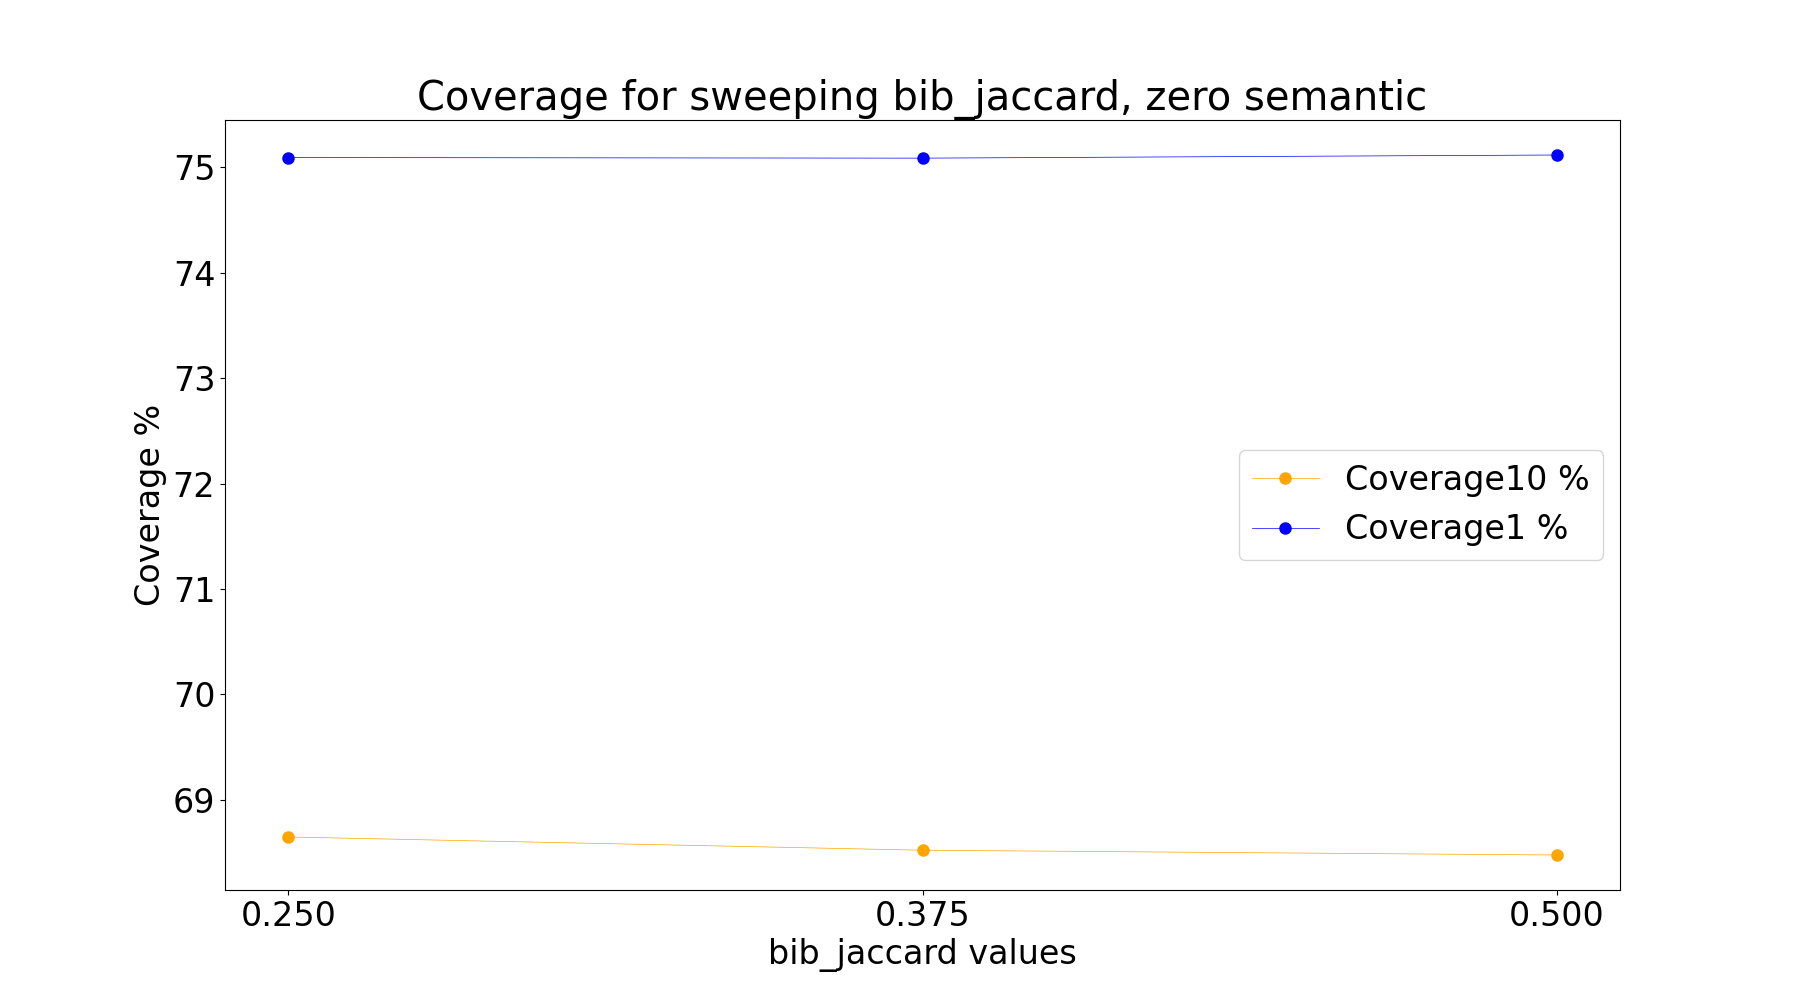
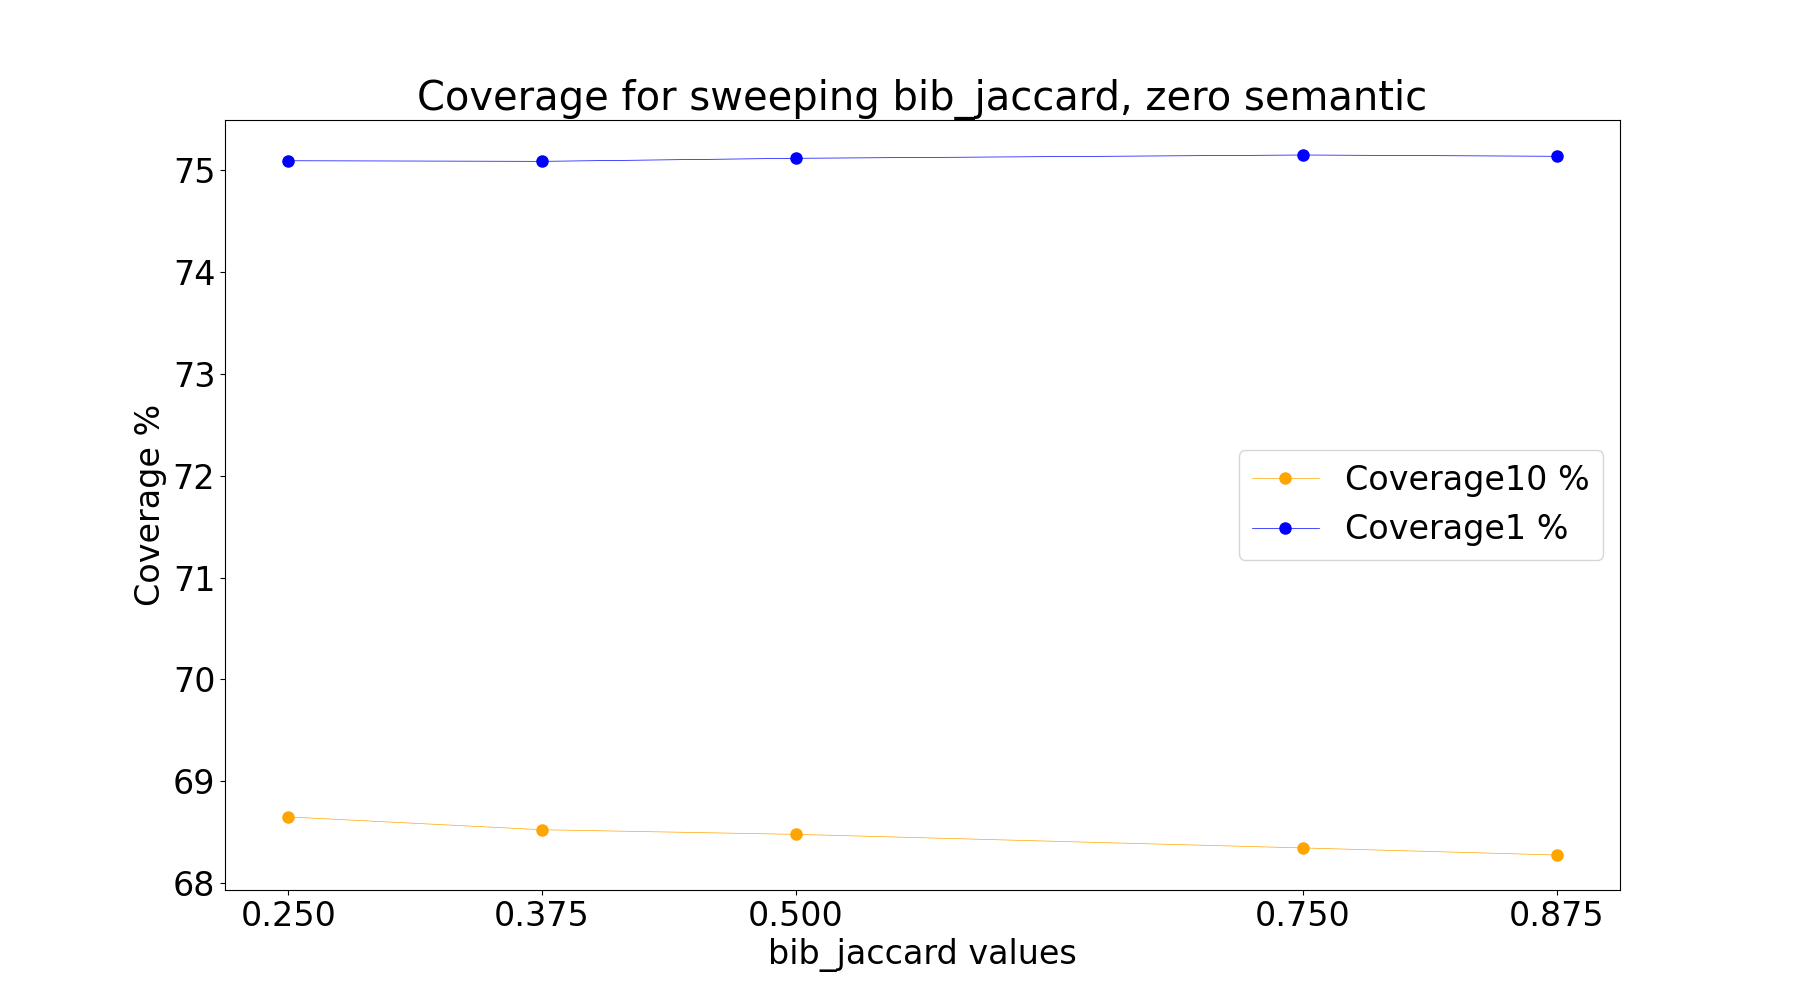
Added more bib_jaccard cases

diff --git a/step_10_cluster/weighting_clustering_pipeline.py b/step_10_cluster/weighting_clustering_pipeline.py
@@ -1041,10 +1041,10 @@ if __name__ == '__main__': # 248213
     # spark.sparkContext.setLogLevel("WARN")
     #
 
-    # result_dir = f"files/results/topo_only_scale_1_10/"
-    # fig_dir = f"figures/topo_only_scale_1_10/"
-    # plot_sweep_topological_features_only(result_dir, fig_dir)
-    # exit(0)
+    result_dir = f"files/results/topo_only_scale_1_10/"
+    fig_dir = f"figures/topo_only_scale_1_10/"
+    plot_sweep_topological_features_only(result_dir, fig_dir)
+    exit(0)
 
     # CPM_weighting_plotter()
     # CPM_gt10_plotter()
